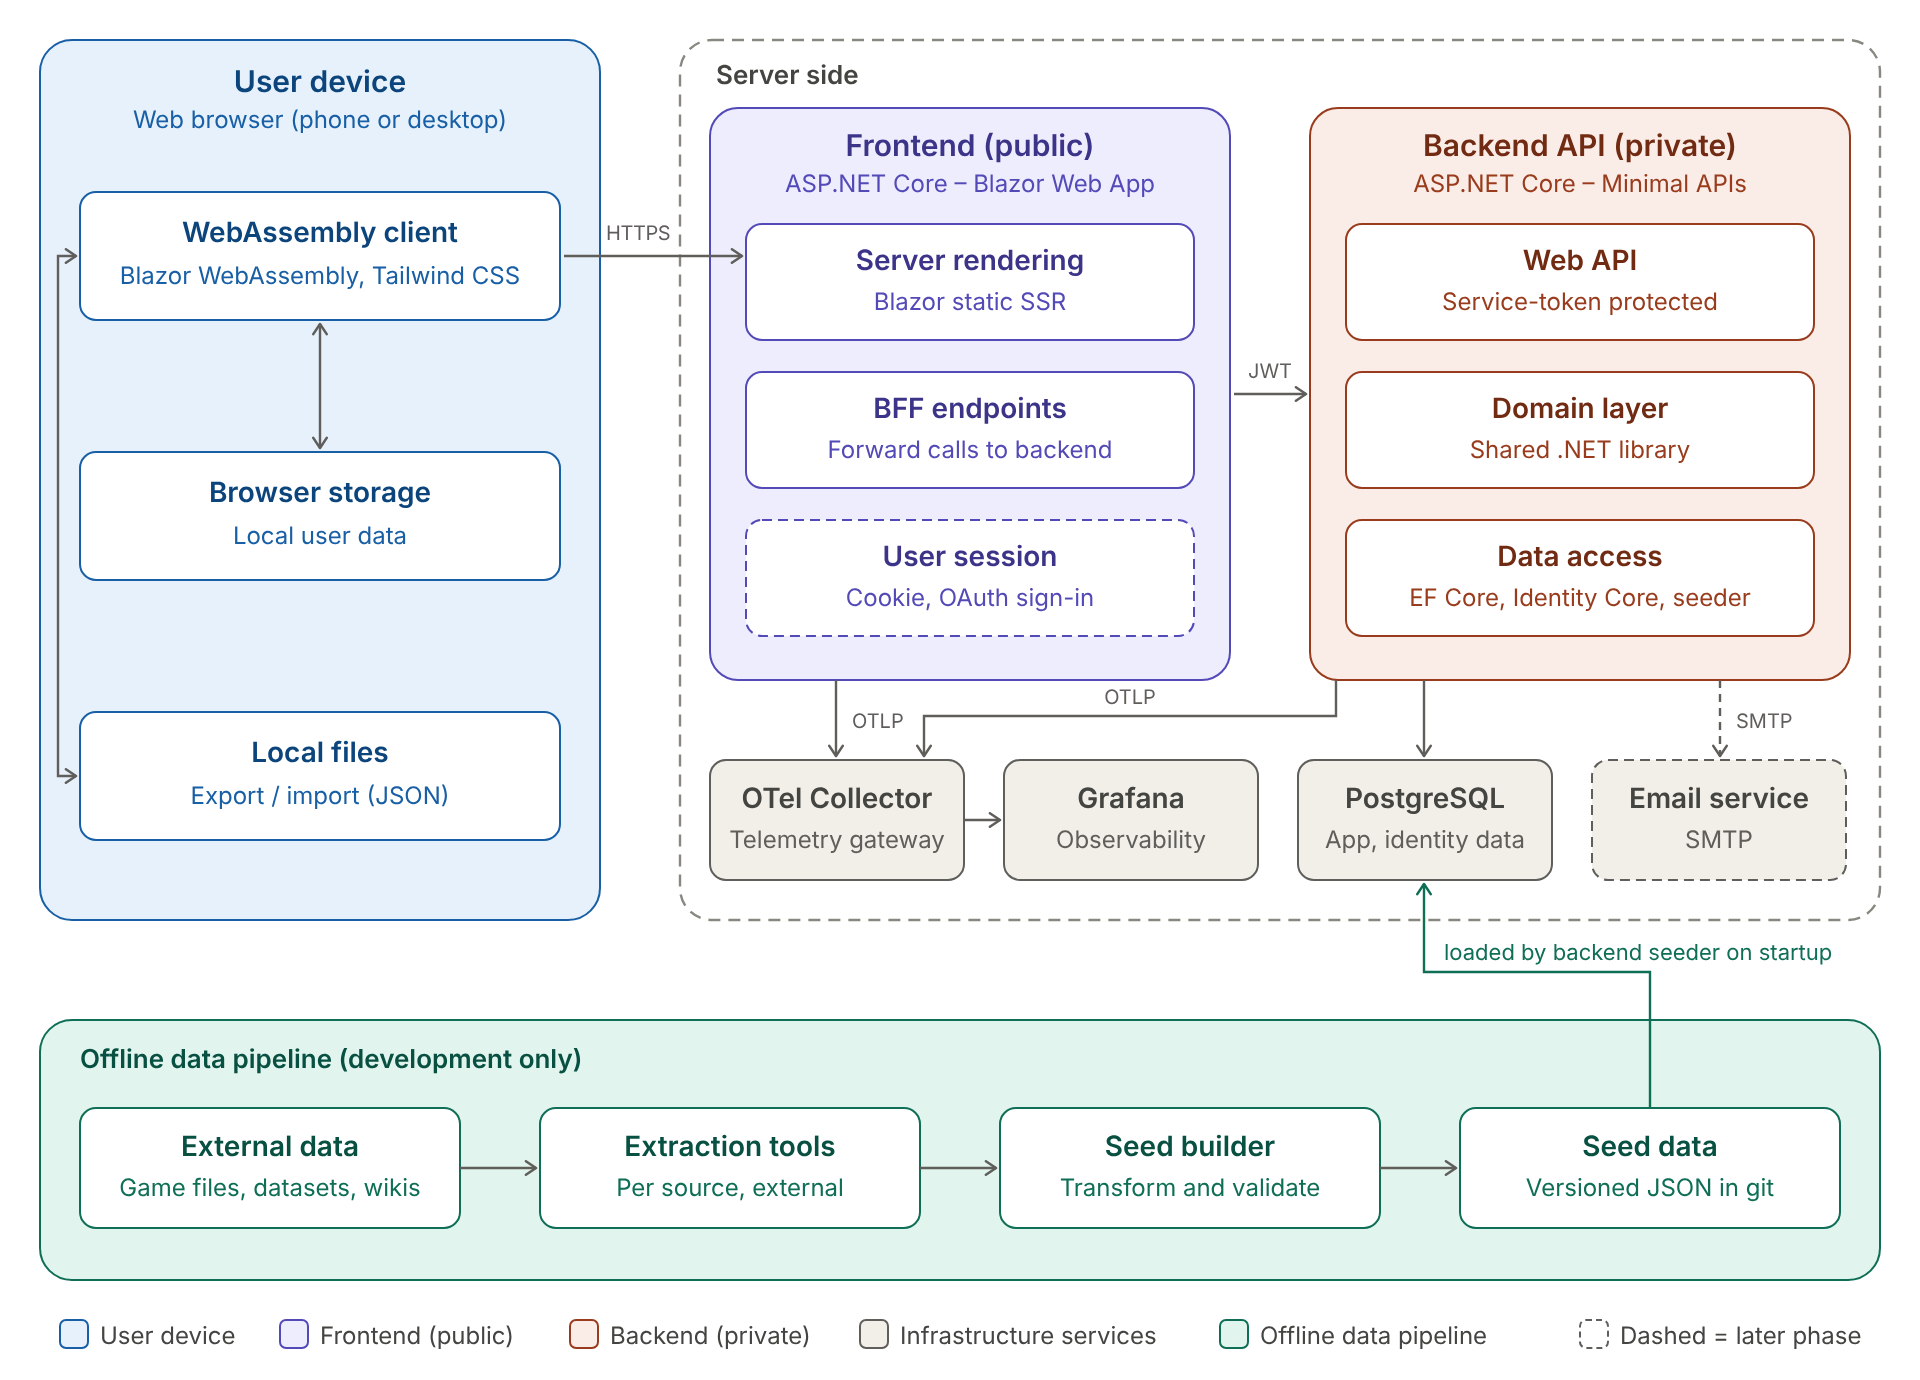
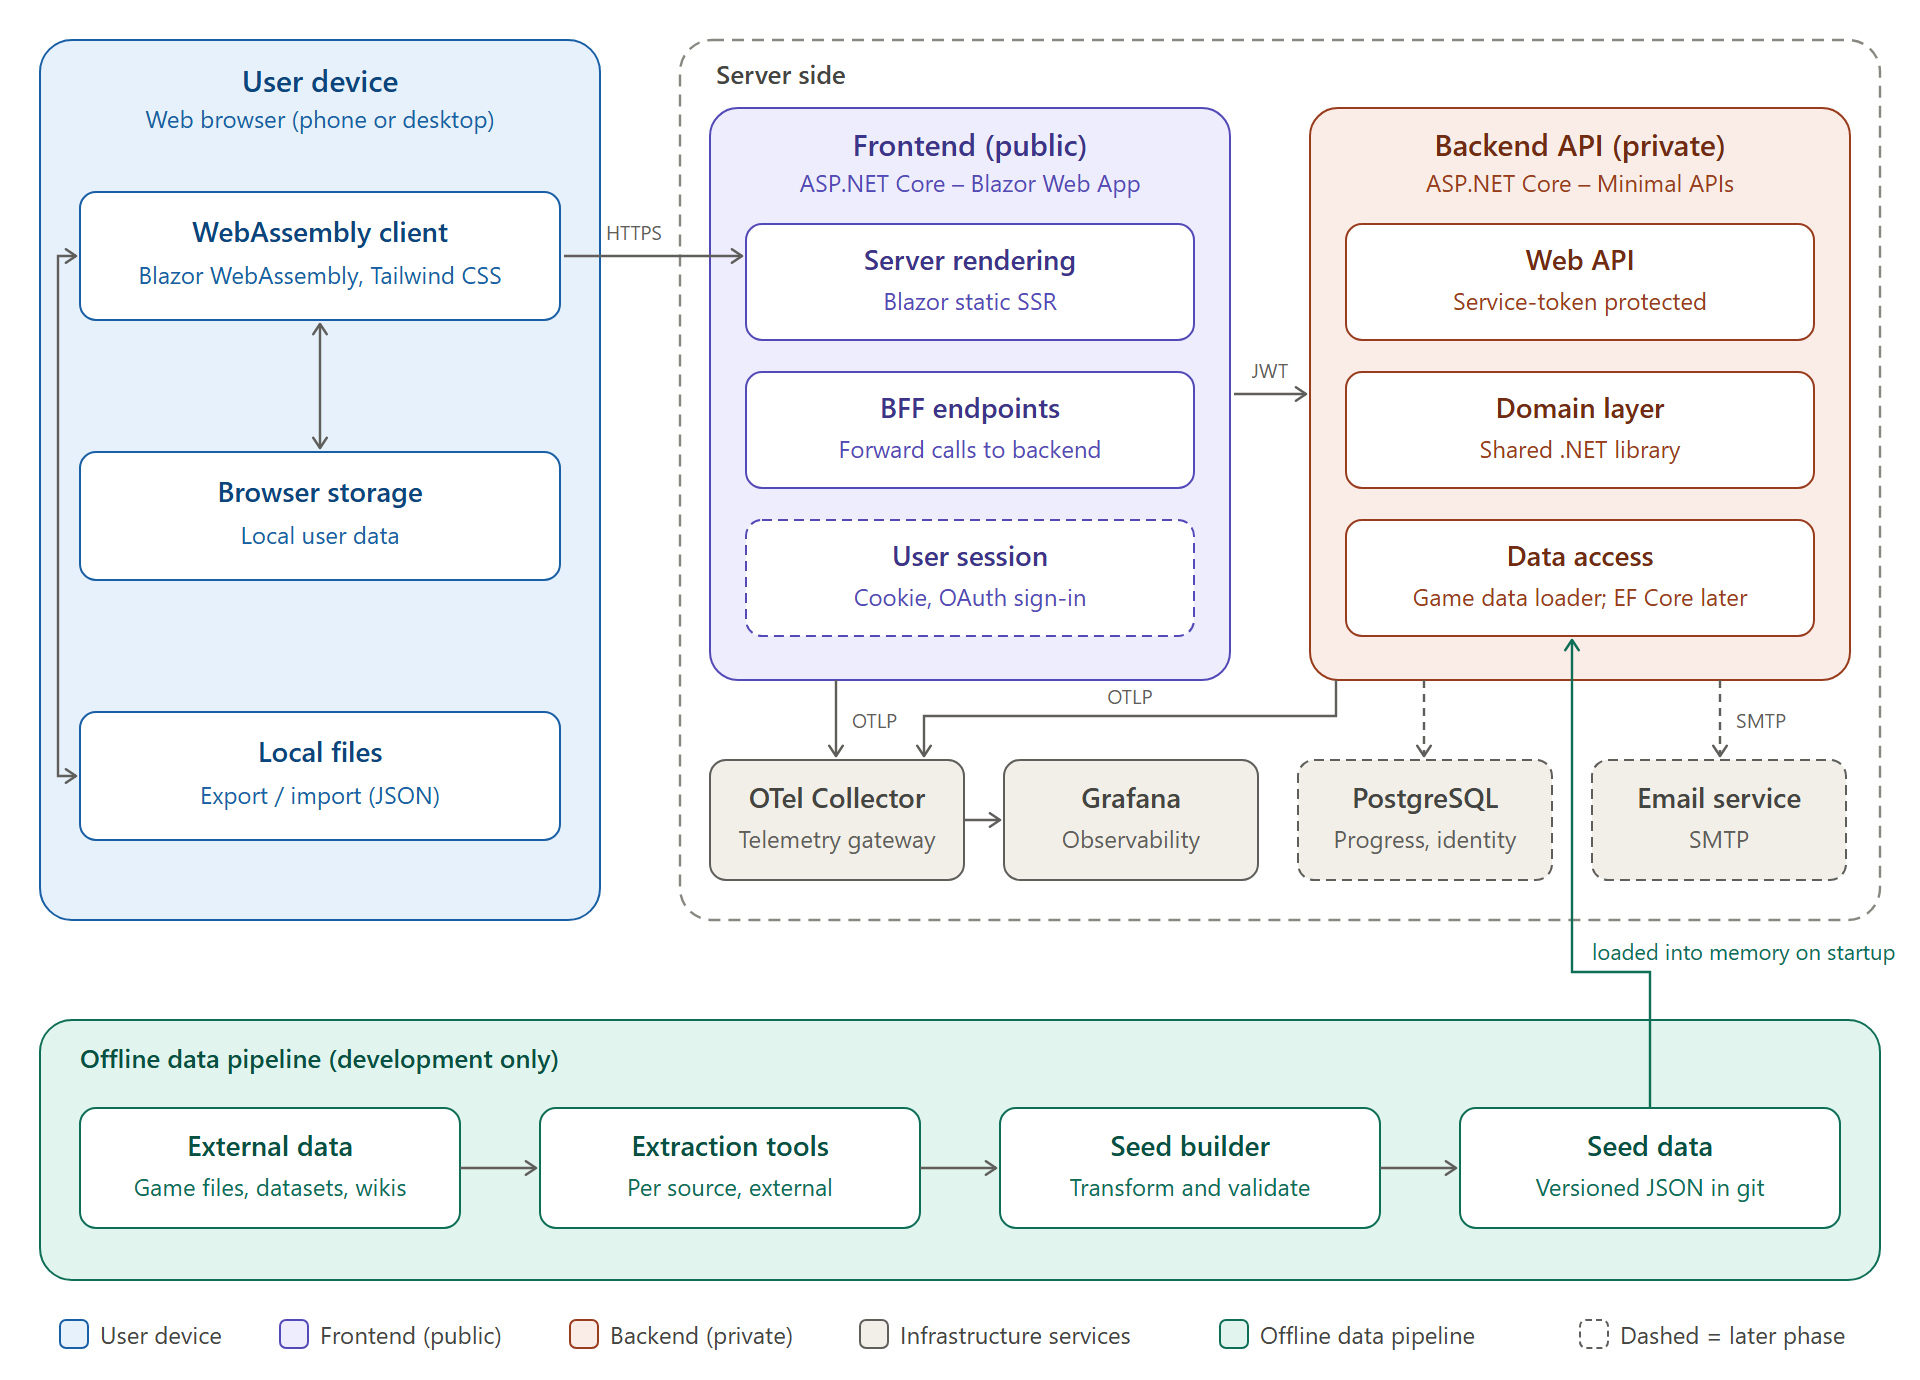
chore: fix issues from the P0.1-P0.3 review (#8)

diff --git a/tests/Companion.Architecture.Tests/DependencyRulesTests.cs b/tests/Companion.Architecture.Tests/DependencyRulesTests.cs
@@ -14,11 +14,16 @@ public sealed class DependencyRulesTests
         [BackendApi] = [BackendData, Contracts],
     };
 
+    private static readonly string[] _databasePackagePrefixes =
+    [
+        "Microsoft.EntityFrameworkCore",
+        "Npgsql",
+    ];
+
     private static readonly string[] _forbiddenPackagePrefixes =
     [
         "Microsoft.AspNetCore",
-        "Microsoft.EntityFrameworkCore",
-        "Npgsql",
+        .. _databasePackagePrefixes,
     ];
 
     private readonly IReadOnlyList<ProjectFile> _projects = ProjectFile.LoadSourceProjects();
@@ -54,6 +59,19 @@ public sealed class DependencyRulesTests
         Assert.DoesNotContain(project.PackageReferences, IsForbiddenPackage);
     }
 
+    [Theory]
+    [InlineData(Frontend)]
+    [InlineData(FrontendClient)]
+    public void FrontendProjects_HaveNoDatabaseReferences(string projectName)
+    {
+        var project = _projects.Single(candidate => candidate.Name == projectName);
+
+        Assert.DoesNotContain(project.PackageReferences, IsDatabasePackage);
+    }
+
     private static bool IsForbiddenPackage(string package) =>
         _forbiddenPackagePrefixes.Any(prefix => package.StartsWith(prefix, StringComparison.OrdinalIgnoreCase));
+
+    private static bool IsDatabasePackage(string package) =>
+        _databasePackagePrefixes.Any(prefix => package.StartsWith(prefix, StringComparison.OrdinalIgnoreCase));
 }

diff --git a/src/Companion.Frontend/Program.cs b/src/Companion.Frontend/Program.cs
@@ -18,9 +18,9 @@ else
     app.UseExceptionHandler("/Error", createScopeForErrors: true);
     // The default HSTS value is 30 days. You may want to change this for production scenarios, see https://aka.ms/aspnetcore-hsts.
     app.UseHsts();
+    app.UseHttpsRedirection();
 }
 app.UseStatusCodePagesWithReExecute("/not-found", createScopeForStatusCodePages: true);
-app.UseHttpsRedirection();
 
 app.UseAntiforgery();
 

diff --git a/docs/04-development-plan.md b/docs/04-development-plan.md
@@ -40,6 +40,8 @@ Estimates assume part-time work and are rough.
 - [x] P0.3.8 Create `.github/dependabot.yml` if it doesn't exist. Add Docker and Docker Compose (same settings).
 
 ### P0.4 Service authentication (frontend → backend)
+
+Do P0.9.1 and P0.9.5 first, so security code lands with automatic checks.
 - [ ] P0.4.1 Key pair generation script (ES256). Keys stored in user-secrets / `.env`.
 - [ ] P0.4.2 Frontend: token issuer (`iss`, `aud`, `exp` ≤ 5 min, `scope`, optional `uid`), cached until near expiry.
 - [ ] P0.4.3 Frontend: `DelegatingHandler` adding the token to backend calls.
@@ -66,6 +68,7 @@ Estimates assume part-time work and are rough.
 - [ ] P0.7.2 Theme tokens as CSS variables; `data-theme` switching; neutral default theme.
 - [ ] P0.7.3 Base layout (mobile-first), resource files for UI strings.
 - [ ] P0.7.4 Render modes: static SSR default, WebAssembly enabled for interactive pages.
+- [ ] P0.7.5 Prove the WebAssembly client runs: one interactive component in a real browser, in Docker.
 
 ### P0.8 Observability
 - [ ] P0.8.1 OpenTelemetry in both services (logs, traces, metrics) → Collector in `otel-lgtm`.
@@ -74,11 +77,13 @@ Estimates assume part-time work and are rough.
 - [ ] P0.8.4 Verify a single trace in Grafana for `GET /bff/games`.
 
 ### P0.9 CI and docs
-- [ ] P0.9.1 GitHub Actions: build, `dotnet format --verify-no-changes`, tests, seed validation, vulnerable packages, Docker image builds.
+- [ ] P0.9.1 GitHub Actions: build, `dotnet format --verify-no-changes`, tests, vulnerable packages, Docker image builds. Seed validation joins when P0.6.5 exists.
 - P0.9.2 Moved to P5.0.4.
-- [ ] P0.9.3 README quickstart tested on a clean machine.
+- [ ] P0.9.3 README quickstart tested on a clean machine, including `cp .env.example .env`.
 - [ ] P0.9.4 Create `.github/dependabot.yml` if it doesn't exist. Add GitHub Actions (same settings).
 - [ ] P0.9.5 Secret scanning (gitleaks) in CI.
+- [ ] P0.9.6 Confirm Dependabot opens a Docker or Docker Compose PR.
+- [ ] P0.9.7 Watch CI for the 2 unexplained build errors seen once after merging P0.3. Capture the message if they return.
 
 **Done when:** `docker compose up` shows a page that lists sample games from the backend, the backend is unreachable from the host, a trace is visible in Grafana, and CI is green.
 

diff --git a/CLAUDE.md b/CLAUDE.md
@@ -7,7 +7,7 @@ Human-readable versions are in `docs/` (start at `docs/README.md`).
 
 - Web app for **100% completion tracking** in games. First game: **Final Fantasy X HD**.
 - **Guest-first:** progress lives in the browser; export/import file. Accounts come in Phase 5.
-- Current phase: **planning → Phase 0** (see `docs/04-development-plan.md`).
+- Current phase: **Phase 0** (see `docs/04-development-plan.md`).
 
 ## Stack
 
@@ -22,14 +22,15 @@ Human-readable versions are in `docs/` (start at `docs/README.md`).
 - OpenTelemetry → Collector on the private network → Grafana (`otel-lgtm` locally, Collector + Grafana Cloud later). Only the Collector talks to Grafana.
 - Tests: xUnit, bUnit, Playwright; Testcontainers from Phase 5.
 
-## Commands (once Phase 0 exists)
+## Commands
 
 ```bash
+cp .env.example .env            # first time only
 docker compose up -d            # start everything
 dotnet build                    # build
 dotnet test                     # all tests (Docker needed for Testcontainers from Phase 5)
 dotnet format --verify-no-changes
-dotnet run --project tools/Companion.SeedBuilder -- validate data/   # seed validation
+dotnet run --project tools/Companion.SeedBuilder -- validate data/   # seed validation (from P0.6.5)
 ```
 
 ## Must always

diff --git a/README.md b/README.md
@@ -3,7 +3,7 @@
 A web app for tracking **100% completion** in video games.
 It starts with **Final Fantasy X (HD Remaster)**. More games come later.
 
-> Status: **planning**. No code yet. See [docs/04-development-plan.md](docs/04-development-plan.md).
+> Status: **in development (Phase 0)**. See [docs/04-development-plan.md](docs/04-development-plan.md).
 
 ## What it does
 
@@ -28,7 +28,7 @@ It starts with **Final Fantasy X (HD Remaster)**. More games come later.
 | Styling | Tailwind CSS, CSS-variable themes per game |
 | Database | PostgreSQL + EF Core (Npgsql), from Phase 5 |
 | Game data | Versioned JSON in this repo, loaded into memory by the backend |
-| Auth (later) | ASP.NET Core Identity in the frontend: external logins + optional email/password |
+| Auth (later) | ASP.NET Core Identity in the backend, sign-in handled by the frontend: external logins + optional email/password |
 | Observability | OpenTelemetry → Grafana (local `otel-lgtm`, later Grafana Cloud) |
 | Local environment | Docker Compose |
 | Tests | xUnit, bUnit, Playwright; Testcontainers from Phase 5 |

diff --git a/docs/07-domain-model.md b/docs/07-domain-model.md
@@ -31,11 +31,11 @@ API DTOs live in `Companion.Contracts`. On the backend, `Playthrough.UserId` is 
 
 ```csharp
 // Game-agnostic 100% completion model. FFX first, other games later.
-// EF Core friendly (plain classes, Guid/int keys). .NET 8+.
+// Plain classes. .NET 10.
 
 namespace Companion.Domain;
 
-// ---------- Static game data (seeded from versioned JSON, read-only at runtime) ----------
+// ---------- Static game data (loaded from versioned JSON, read-only at runtime) ----------
 
 public class Game
 {
